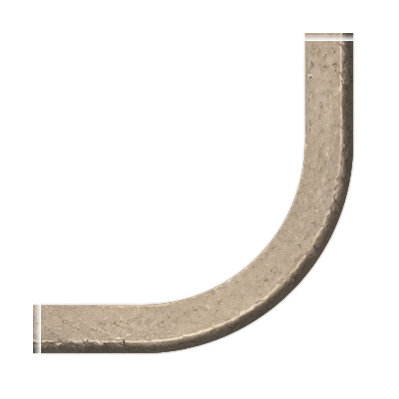
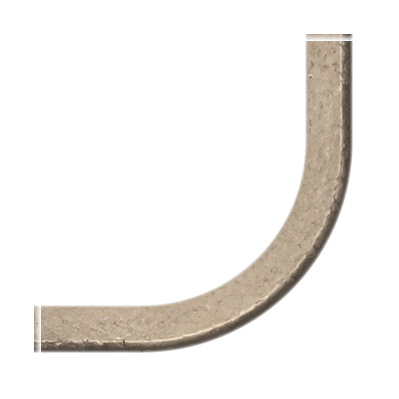
Curb corners: smooth-path clean-edge mask (kill the scalloped edge)
The prior clean-edge mask swept solid rects along the corner path; on the
convex (sidewalk/road) side consecutive rects diverge, scalloping the mask —
so the corner's outer edge rendered as bumpy "stuff sticking out" past the
clean silhouette. Rebuild the mask as ONE filled path: an offset concentric
arc (radius = path R ± clean offset) plus straight arm offsets, so the outer
edge is a mathematically smooth curve. Offsets are oriented by lowerInside
(grass = sidewalk on the outer/larger-radius side; road trims both). Grass
keeps its inner blade side loose.

Re-baked sep-corner-{road,grass}.png; verified the outer arc is smooth both
as an isolated sprite and in-scene.

Claude-Session: https://claude.ai/code/session_01MzT91WcyqemncboiCffQLx

diff --git a/CLAUDE.md b/CLAUDE.md
@@ -109,8 +109,10 @@ feet-anchored to one ground-Y, which is the sort key.
   painted edge; three bake passes keep the built edge CLEAN (the recurring "stuff
   coming out of the edge"): (a) the corner strokes a **joint-free window** of the
   strip (shorter than one block) so the arc is one smooth continuous curb, no
-  joints; (b) a **swept clean-edge mask** (`bake_stroke` cleanOut/cleanIn) trims the
-  bumpy hand-painted silhouette to a smooth curve — grass keeps its inner (blade)
+  joints; (b) a **clean-edge mask** (`bake_stroke` cleanOut/cleanIn) — one filled
+  path (offset concentric arc + straight arms, NOT swept rects, which would scallop
+  the convex side) — trims the bumpy hand-painted silhouette to a smooth curve on
+  the outer (sidewalk/road) side; grass keeps its inner (blade)
   side loose; the straight strips get the matching top/edge trim (`trim_straight`);
   (c) `clean_edges` caps the luminance of the semi-transparent feather so the edge
   blends into the sidewalk instead of glowing as a bright scalloped lace.
